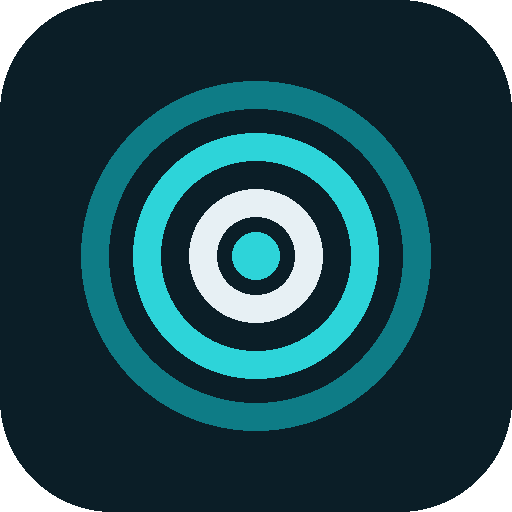
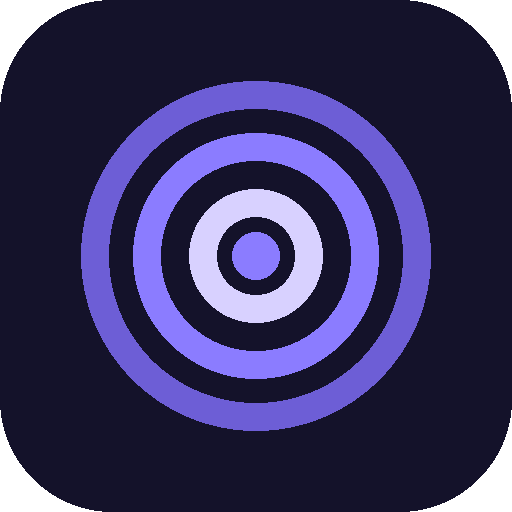
Nueva paleta dark indigo + violeta (elegida por JP); iconos y manifest a juego

Changed region(s): [[0.1562, 0.1562, 0.8438, 0.8438], [0.3438, 0.3438, 0.6562, 0.6562]]

diff --git a/index.html b/index.html
@@ -3,7 +3,7 @@
 <head>
 <meta charset="utf-8">
 <meta name="viewport" content="width=device-width, initial-scale=1, viewport-fit=cover">
-<meta name="theme-color" content="#0a0f16">
+<meta name="theme-color" content="#0f0e1a">
 <link rel="manifest" href="manifest.webmanifest">
 <link rel="apple-touch-icon" href="icon-192.png">
 <title>Gimnasio Mental</title>
@@ -11,22 +11,22 @@
 <style>
   /* ===== DARK por defecto (profesional) ===== */
   :root{
-    --bg:#0a0f16; --bg-2:#0c131c; --surface:#121b26; --surface-2:#17222f; --elev:#1c2a39;
-    --ink:#e9eff4; --muted:#8a9bab; --faint:#5c6b7a; --border:#223140; --border-2:#2b3d4e;
-    --accent:#2dd4d9; --accent-ink:#7fe9ec; --accent-dim:rgba(45,212,217,.13);
-    --good:#34d399; --warn:#fbbf24; --bad:#f87171; --fire:#fb923c;
-    --shadow:0 1px 2px rgba(0,0,0,.4),0 10px 30px rgba(0,0,0,.35);
-    --grad:linear-gradient(135deg,#2dd4d9,#3b82f6);
+    --bg:#0f0e1a; --bg-2:#0b0a14; --surface:#1a1830; --surface-2:#211f3a; --elev:#26234a;
+    --ink:#eae8f8; --muted:#9a95c2; --faint:#6b6690; --border:#2a2748; --border-2:#39355f;
+    --accent:#8b7cff; --accent-ink:#b7acff; --accent-dim:rgba(139,124,255,.15);
+    --good:#4ade80; --warn:#fbbf24; --bad:#f87171; --fire:#fb923c; --btn-ink:#14102e;
+    --shadow:0 1px 2px rgba(0,0,0,.45),0 12px 34px rgba(0,0,0,.4);
+    --grad:linear-gradient(135deg,#8b7cff,#c084fc);
     color-scheme:dark;
     font-family:'IBM Plex Sans',system-ui,-apple-system,sans-serif;
   }
   :root[data-theme="light"]{
     --bg:#eef2f4; --bg-2:#e7edf0; --surface:#ffffff; --surface-2:#f2f6f8; --elev:#ffffff;
-    --ink:#0e1b23; --muted:#566a78; --faint:#8195a3; --border:#dbe4e8; --border-2:#cdd9df;
-    --accent:#0e7c86; --accent-ink:#0a5b63; --accent-dim:rgba(14,124,134,.10);
-    --good:#12a150; --warn:#c2740c; --bad:#dc2626; --fire:#d9722a;
-    --shadow:0 1px 2px rgba(14,27,35,.06),0 8px 26px rgba(14,27,35,.06);
-    --grad:linear-gradient(135deg,#0e7c86,#2563eb);
+    --ink:#171526; --muted:#5c5878; --faint:#8b87a3; --border:#e3e0ee; --border-2:#d3cfe6;
+    --accent:#5b4fd6; --accent-ink:#4a3fc0; --accent-dim:rgba(91,79,214,.10);
+    --good:#12a150; --warn:#c2740c; --bad:#dc2626; --fire:#d9722a; --btn-ink:#ffffff;
+    --shadow:0 1px 2px rgba(23,21,38,.06),0 8px 26px rgba(23,21,38,.06);
+    --grad:linear-gradient(135deg,#5b4fd6,#a855f7);
     color-scheme:light;
   }
   *{box-sizing:border-box}
@@ -52,7 +52,7 @@
 
   /* ===== SIDEBAR ===== */
   .brand{display:flex;align-items:center;gap:11px;padding:4px 8px 22px}
-  .brand .logo{width:34px;height:34px;border-radius:9px;background:var(--grad);display:grid;place-items:center;flex:none;box-shadow:0 4px 14px rgba(45,212,217,.3)}
+  .brand .logo{width:34px;height:34px;border-radius:9px;background:var(--grad);display:grid;place-items:center;flex:none;box-shadow:0 4px 16px rgba(139,124,255,.4)}
   .brand .logo svg{width:19px;height:19px}
   .brand b{font-family:'Sora';font-weight:700;font-size:15px;letter-spacing:-.01em}
   .brand small{display:block;font-size:10.5px;color:var(--muted);letter-spacing:.12em;text-transform:uppercase;font-weight:600}
@@ -183,7 +183,7 @@
   .metarow{display:flex;align-items:center;gap:12px;border-top:1px solid var(--border);padding:13px 0}
   .metarow:first-of-type{border-top:none}.metarow label{flex:1;font-size:14px}
   .metarow input{width:140px;flex:none}.metarow input[type=date]{width:160px}
-  .btn{display:inline-flex;align-items:center;justify-content:center;gap:8px;background:var(--accent);color:#04252a;border:none;border-radius:10px;padding:11px 16px;font-weight:600;font-size:14px;cursor:pointer}
+  .btn{display:inline-flex;align-items:center;justify-content:center;gap:8px;background:var(--accent);color:var(--btn-ink);border:none;border-radius:10px;padding:11px 16px;font-weight:600;font-size:14px;cursor:pointer}
   .btn:hover{filter:brightness(1.06)} .btn.ghost{background:transparent;color:var(--accent-ink);border:1px solid var(--border-2)}
   .btn:focus-visible{outline:2px solid var(--accent);outline-offset:2px}
   .stack{display:flex;flex-direction:column;gap:10px}
@@ -205,7 +205,7 @@
   <!-- ===== SIDEBAR (desktop) ===== -->
   <aside class="sidebar">
     <div class="brand">
-      <span class="logo"><svg viewBox="0 0 24 24" fill="none" stroke="#04252a" stroke-width="2.4"><circle cx="12" cy="12" r="9"/><circle cx="12" cy="12" r="4"/><circle cx="12" cy="12" r="0.5" fill="#04252a"/></svg></span>
+      <span class="logo"><svg viewBox="0 0 24 24" fill="none" stroke="#14102e" stroke-width="2.4"><circle cx="12" cy="12" r="9"/><circle cx="12" cy="12" r="4"/><circle cx="12" cy="12" r="0.5" fill="#14102e"/></svg></span>
       <span><b>Gimnasio Mental</b><small>Progreso diario</small></span>
     </div>
     <nav id="sidenav"></nav>
@@ -218,7 +218,7 @@
   <!-- ===== MAIN ===== -->
   <main>
     <div class="topbar">
-      <span class="mlogo"><svg viewBox="0 0 24 24" fill="none" stroke="#04252a" stroke-width="2.4"><circle cx="12" cy="12" r="9"/><circle cx="12" cy="12" r="4"/></svg></span>
+      <span class="mlogo"><svg viewBox="0 0 24 24" fill="none" stroke="#14102e" stroke-width="2.4"><circle cx="12" cy="12" r="9"/><circle cx="12" cy="12" r="4"/></svg></span>
       <div class="tb-title"><h1 id="pageTitle">Hoy</h1><div class="date" id="pageDate"></div></div>
       <button class="iconbtn" id="btnThemeTop" title="Cambiar tema" aria-label="Cambiar tema"><svg viewBox="0 0 24 24" fill="none" stroke="currentColor" stroke-width="2"><path d="M21 12.8A9 9 0 1 1 11.2 3 7 7 0 0 0 21 12.8z"/></svg></button>
     </div>

diff --git a/app.js b/app.js
@@ -230,7 +230,7 @@ $("#fileImport").addEventListener("change",function(e){var f=e.target.files[0];i
 function toggleTheme(){var cur=document.documentElement.getAttribute("data-theme");var next=cur==="light"?"":"light";
   if(next)document.documentElement.setAttribute("data-theme",next);else document.documentElement.removeAttribute("data-theme");
   try{localStorage.setItem("gm_theme",next)}catch(e){}
-  document.querySelector('meta[name=theme-color]').setAttribute("content",next==="light"?"#eef2f4":"#0a0f16");
+  document.querySelector('meta[name=theme-color]').setAttribute("content",next==="light"?"#eef2f4":"#0f0e1a");
   if(state.tab==="progreso")makeCharts()}
 $("#btnTheme").addEventListener("click",toggleTheme);$("#btnThemeTop").addEventListener("click",toggleTheme);
 

diff --git a/sw.js b/sw.js
@@ -1,6 +1,6 @@
 /* Service worker: offline-first para el shell de la app.
    Sube la versión (CACHE) cuando cambies index.html/app.js para forzar refresco. */
-var CACHE="gm-v3";
+var CACHE="gm-v4";
 var SHELL=[
   "./","./index.html","./app.js","./manifest.webmanifest",
   "./icon-192.png","./icon-512.png",

diff --git a/generate_icons.py b/generate_icons.py
@@ -4,13 +4,13 @@ from PIL import Image, ImageDraw
 def make(size, path):
     img = Image.new("RGBA", (size, size), (0, 0, 0, 0))
     d = ImageDraw.Draw(img)
-    # fondo redondeado teal profundo
+    # fondo redondeado indigo profundo
     r = int(size * 0.22)
-    d.rounded_rectangle([0, 0, size - 1, size - 1], radius=r, fill=(11, 30, 39, 255))
+    d.rounded_rectangle([0, 0, size - 1, size - 1], radius=r, fill=(20, 18, 42, 255))
     cx = cy = size / 2
-    teal = (14, 124, 134, 255)
-    cyan = (45, 212, 217, 255)
-    white = (231, 240, 244, 255)
+    teal = (109, 94, 214, 255)     # indigo
+    cyan = (139, 124, 255, 255)    # violeta acento
+    white = (216, 209, 255, 255)   # lavanda claro
     # anillos concéntricos (diana = "norte")
     def ring(frac, color, w):
         rr = size * frac
